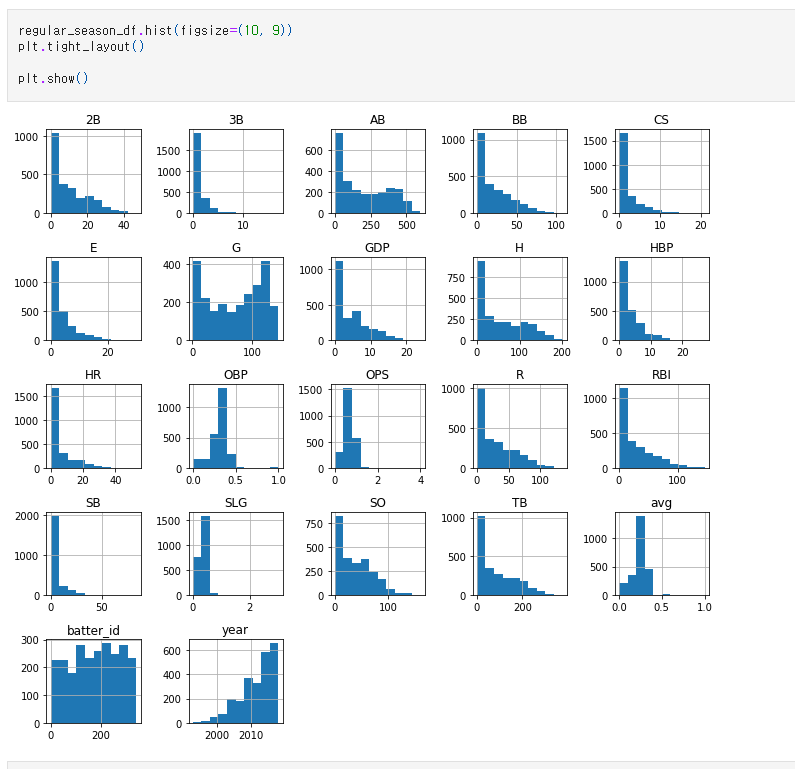
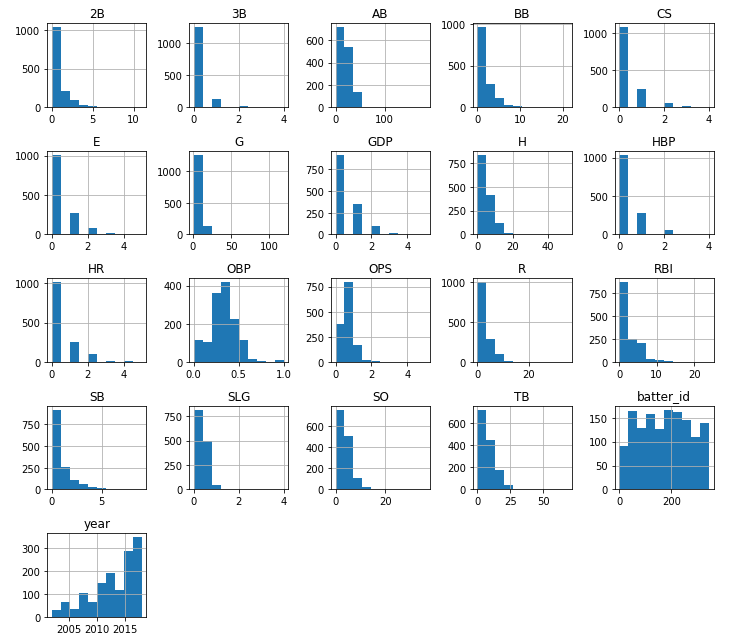
feat : add information

diff --git a/monthly_proj/eda_visualization/template/eda.html b/monthly_proj/eda_visualization/template/eda.html
@@ -28,7 +28,7 @@
                 </button>
                 <div class="collapse navbar-collapse" id="navbarResponsive">
                     <ul class="navbar-nav ms-auto">
-                        <li class="nav-item mx-0 mx-lg-1"><a class="nav-link py-3 px-0 px-lg-3 rounded" href="#portfolio">EDAs</a></li>
+                        <li class="nav-item mx-0 mx-lg-1"><a class="nav-link py-3 px-0 px-lg-3 rounded" href="#portfolio">Visualizations</a></li>
                         <li class="nav-item mx-0 mx-lg-1"><a class="nav-link py-3 px-0 px-lg-3 rounded" href="#about">About</a></li>
                         <li class="nav-item mx-0 mx-lg-1"><a class="nav-link py-3 px-0 px-lg-3 rounded" href="#contact">Contact</a></li>
                     </ul>
@@ -56,7 +56,7 @@
         <section class="page-section portfolio" id="portfolio">
             <div class="container">
                 <!-- Portfolio Section Heading-->
-                <h2 class="page-section-heading text-center text-uppercase text-secondary mb-0">EDAs</h2>
+                <h2 class="page-section-heading text-center text-uppercase text-secondary mb-0">Visualizations </h2>
                 <!-- Icon Divider-->
                 <div class="divider-custom">
                     <div class="divider-custom-line"></div>
@@ -189,7 +189,7 @@
                             </div>
                             <!-- Submit success message-->
                             <!---->
-                            <!-- This is what your users will see when the form-->
+                            <!-- This is what your users will see when the -->
                             <!-- has successfully submitted-->
                             <div class="d-none" id="submitSuccessMessage">
                                 <div class="text-center mb-3">
@@ -301,7 +301,12 @@
                                     <!-- Portfolio Modal - Image-->
                                     <img class="img-fluid rounded mb-5" src="{% static 'assets/img/visualizations/20220107_regular_season_df_hist.png' %}" alt="..." />
                                     <!-- Portfolio Modal - Text-->
-                                    <p class="mb-4">Lorem ipsum dolor sit amet, consectetur adipisicing elit. Mollitia neque assumenda ipsam nihil, molestias magnam, recusandae quos quis inventore quisquam velit asperiores, vitae? Reprehenderit soluta, eos quod consequuntur itaque. Nam.</p>
+                                    <p class="mb-4">2루타, 3루타, 사구 등의 데이터 분포가 매우 제한적이며, 연도(year)데이터를 봤을 때 과거 데이터는 매우 적음
+
+                                        preseason_df.hist(figsize=(10, 9))
+                                        plt.tight_layout()
+                                        
+                                        plt.show()</p>
                                     <button class="btn btn-primary" href="#!" data-bs-dismiss="modal">
                                         <i class="fas fa-times fa-fw"></i>
                                         Close Window
@@ -333,7 +338,8 @@
                                     <!-- Portfolio Modal - Image-->
                                     <img class="img-fluid rounded mb-5" src="{% static 'assets/img/visualizations/20220107_OPS_median_by_year.png' %}" alt="..." />
                                     <!-- Portfolio Modal - Text-->
-                                    <p class="mb-4">Lorem ipsum dolor sit amet, consectetur adipisicing elit. Mollitia neque assumenda ipsam nihil, molestias magnam, recusandae quos quis inventore quisquam velit asperiores, vitae? Reprehenderit soluta, eos quod consequuntur itaque. Nam.</p>
+                                    <p class="mb-4"> OPS 상세 그래프
+                                        # 2000년 이후로 변동이 줄어듦 </p>
                                     <button class="btn btn-primary" href="#!" data-bs-dismiss="modal">
                                         <i class="fas fa-times fa-fw"></i>
                                         Close Window
@@ -363,9 +369,20 @@
                                         <div class="divider-custom-line"></div>
                                     </div>
                                     <!-- Portfolio Modal - Image-->
-                                    <img class="img-fluid rounded mb-5" src="{% static 'assets/img/visualizations/assets/img/visualization/20220107_OPS_boxplot_by_year.png' %}" alt="..." />
+                                    <img class="img-fluid rounded mb-5" src="{% static 'assets/img/visualization/20220107_OPS_boxplot_by_year.png' %}" alt="..." />
                                     <!-- Portfolio Modal - Text-->
-                                    <p class="mb-4">Lorem ipsum dolor sit amet, consectetur adipisicing elit. Mollitia neque assumenda ipsam nihil, molestias magnam, recusandae quos quis inventore quisquam velit asperiores, vitae? Reprehenderit soluta, eos quod consequuntur itaque. Nam.</p>
+                                    <p class="mb-4">
+                                        plt.figure(figsize=(15, 6))
+plt.subplot(1, 2, 1)
+g = sns.boxplot(x='year', y='OPS', data=regular_season_df, showfliers=False)
+g.set_title('OPS Boxplot by Year', size=20)
+g.set_xticklabels(g.get_xticklabels(), rotation=90)
+plt.subplot(1, 2, 2)
+plt.plot(regular_season_df.groupby('year')['OPS'].median())
+plt.title('OPS Median by Year', size=20)
+
+plt.show()
+                                    </p>
                                     <button class="btn btn-primary" href="#!" data-bs-dismiss="modal">
                                         <i class="fas fa-times fa-fw"></i>
                                         Close Window
@@ -397,7 +414,11 @@
                                     <!-- Portfolio Modal - Image-->
                                     <img class="img-fluid rounded mb-5" src="{% static 'assets/img/visualizations/20220107_weight_height_SLG.png' %}" alt="..." />
                                     <!-- Portfolio Modal - Text-->
-                                    <p class="mb-4">Lorem ipsum dolor sit amet, consectetur adipisicing elit. Mollitia neque assumenda ipsam nihil, molestias magnam, recusandae quos quis inventore quisquam velit asperiores, vitae? Reprehenderit soluta, eos quod consequuntur itaque. Nam.</p>
+                                    <p class="mb-4">
+                                        # 몸무게 / 키 계산
+                                        # 정규시즌과 프리시즌의 상관관계 계산
+                                        # 데이터가 선형을 보이지 않고 고르게 분포하고 있음 -> 키, 몸무게는 장타율, 출루율과 연관성이 없음
+                                    </p>
                                     <button class="btn btn-primary" href="#!" data-bs-dismiss="modal">
                                         <i class="fas fa-times fa-fw"></i>
                                         Close Window
@@ -429,7 +450,26 @@
                                     <!-- Portfolio Modal - Image-->
                                     <img class="img-fluid rounded mb-5" src="{% static 'assets/img/visualizations/20220107_weight_per_height_OBP.png' %}" alt="..." />
                                     <!-- Portfolio Modal - Text-->
-                                    <p class="mb-4">Lorem ipsum dolor sit amet, consectetur adipisicing elit. Mollitia neque assumenda ipsam nihil, molestias magnam, recusandae quos quis inventore quisquam velit asperiores, vitae? Reprehenderit soluta, eos quod consequuntur itaque. Nam.</p>
+                                    <p class="mb-4">
+                                        regular_season_df['weight_per_height'] = regular_season_df['weight'] / regular_season_df['height']
+                                        plt.figure(figsize=(15, 5))
+                                        plt.subplot(1, 2, 1)
+                                        
+                                        correlation = regular_season_df['weight_per_height'].corr(regular_season_df['OBP'])
+                                        sns.scatterplot(regular_season_df['weight_per_height'], regular_season_df['OBP'])
+                                        plt.title('weight / height, OBP correlation : ' + str(np.round(correlation, 2)), fontsize=15)
+                                        plt.ylabel('regular season OBP', fontsize=12)
+                                        plt.xlabel('weight / height', fontsize=12)
+                                        plt.subplot(1, 2, 2)
+                                        
+                                        correlation = regular_season_df['weight_per_height'].corr(regular_season_df['SLG'])
+                                        sns.scatterplot(regular_season_df['weight_per_height'], regular_season_df['SLG'])
+                                        plt.title('weight / height, SLG correlation : ' + str(np.round(correlation, 2)), fontsize=15)
+                                        plt.ylabel('regular season SLG', fontsize=12)
+                                        plt.xlabel('weight / height', fontsize=12)
+                                        
+                                        plt.show()                                        
+                                    </p>
                                     <button class="btn btn-primary" href="#!" data-bs-dismiss="modal">
                                         <i class="fas fa-times fa-fw"></i>
                                         Close Window
